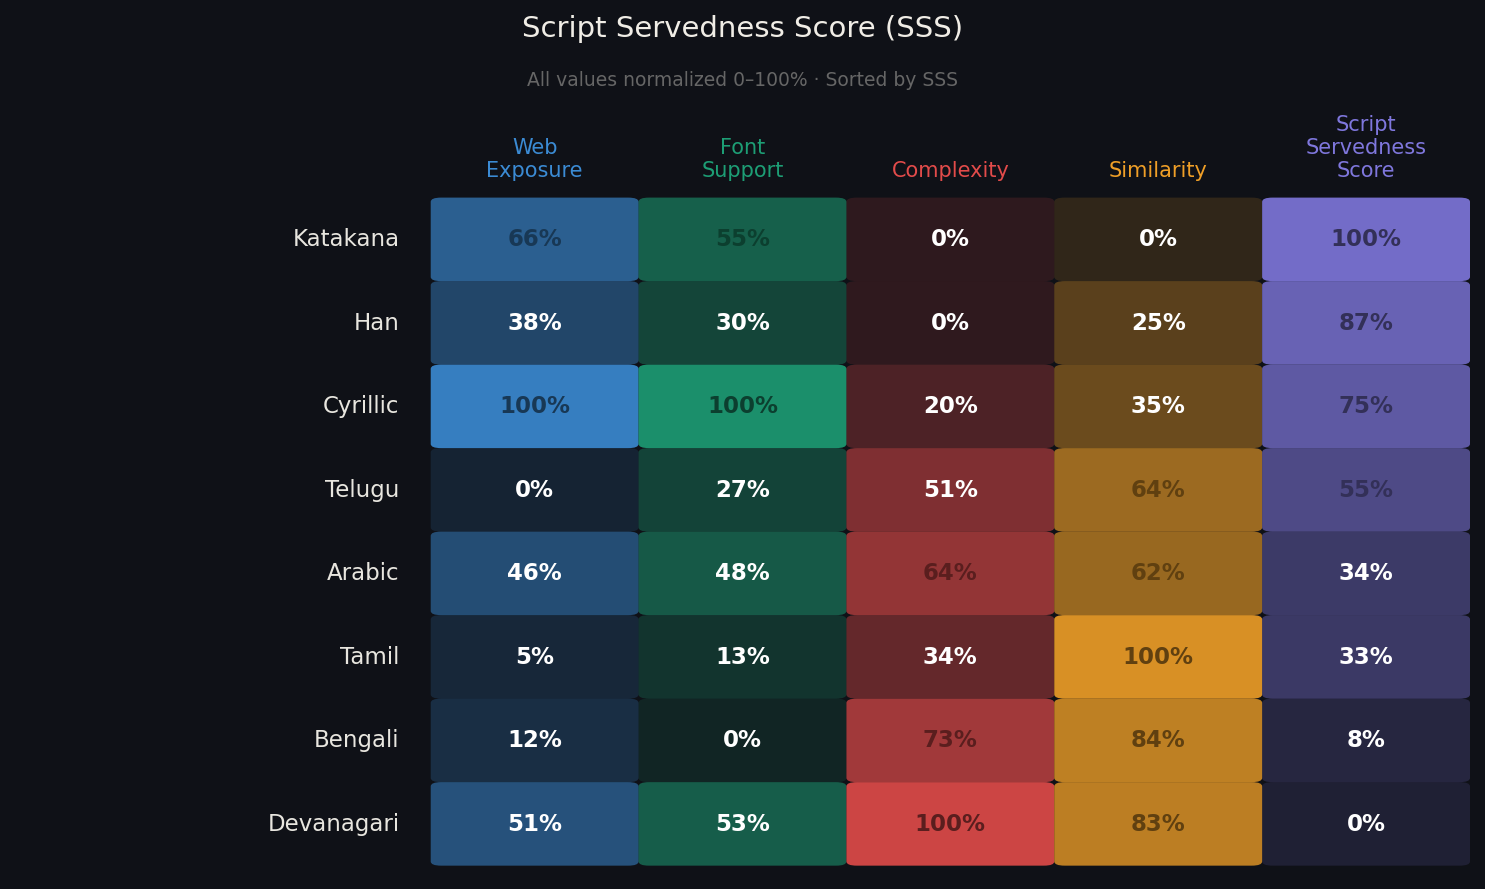
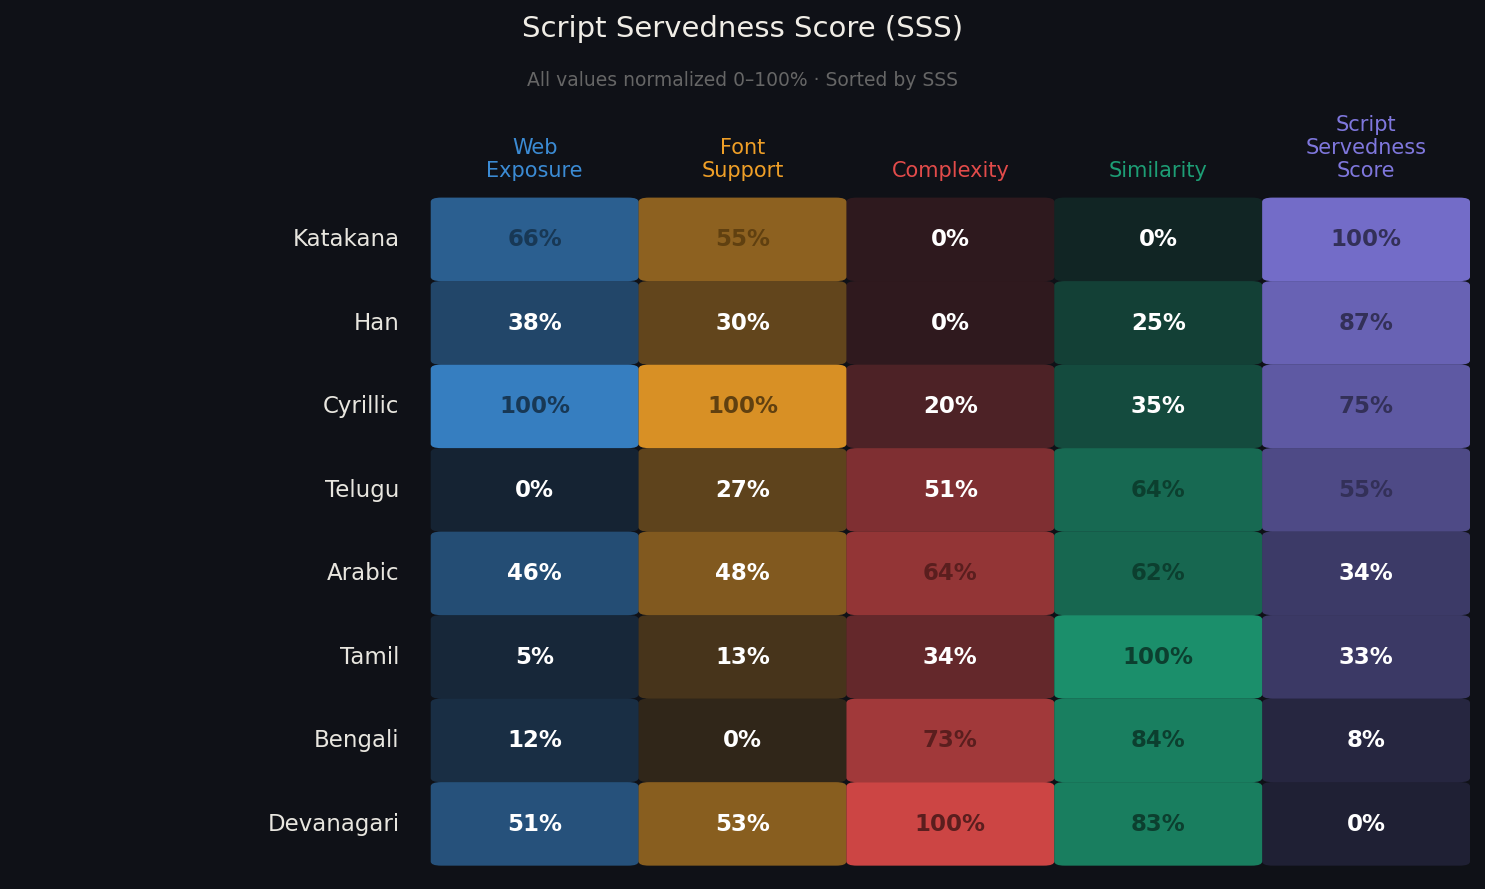
color consistency

Changed region(s): [[0.4027, 0.1519, 0.5886, 0.9719], [0.7125, 0.1822, 0.8673, 0.9719]]

diff --git a/data/viz/heatmap.html b/data/viz/heatmap.html
@@ -3,7 +3,7 @@
 <head>
 <meta charset="UTF-8">
 <meta name="viewport" content="width=device-width, initial-scale=1.0">
-<title>Script Servedness Score (SSS) Heatmap</title>
+<title>Script Underservedness Heatmap</title>
 <style>
   * { box-sizing: border-box; margin: 0; padding: 0; }
   body {
@@ -128,7 +128,7 @@
 
 <h1>Script Servedness Score (SSS)</h1>
 <p class="subtitle">
-  TRC / Monotype / Sawyer Lab | Data: Google Fonts | All values normalized 0-1 | Sorted by SSS (best served first)
+  TRC / Sawyer Lab | All values normalized 0-1 | Sorted by SSS (best served first)
 </p>
 
 <div class="heatmap-wrap">
@@ -148,8 +148,8 @@
 <div class="tooltip" id="tooltip"></div>
 
 <script>
-const data = [{"script": "Katakana", "cells": [{"norm": 0.6649, "raw": "434,832", "label": "Web Exposure", "color": "#3B8BD4"}, {"norm": 0.5505, "raw": "67", "label": "Font Support", "color": "#1D9E75"}, {"norm": 0.0, "raw": "0.000", "label": "Complexity", "color": "#E24B4A"}, {"norm": 0.0, "raw": "0.000", "label": "Similarity", "color": "#EF9F27"}, {"norm": 1.0, "raw": "-0.114", "label": "SSS", "color": "#7F77DD"}]}, {"script": "Han", "cells": [{"norm": 0.384, "raw": "96,340", "label": "Web Exposure", "color": "#3B8BD4"}, {"norm": 0.2953, "raw": "29", "label": "Font Support", "color": "#1D9E75"}, {"norm": 0.0022, "raw": "0.002", "label": "Complexity", "color": "#E24B4A"}, {"norm": 0.2509, "raw": "0.251", "label": "Similarity", "color": "#EF9F27"}, {"norm": 0.8668, "raw": "-0.342", "label": "SSS", "color": "#7F77DD"}]}, {"script": "Cyrillic", "cells": [{"norm": 1.0, "raw": "2,623,937", "label": "Web Exposure", "color": "#3B8BD4"}, {"norm": 1.0, "raw": "293", "label": "Font Support", "color": "#1D9E75"}, {"norm": 0.1969, "raw": "0.167", "label": "Complexity", "color": "#E24B4A"}, {"norm": 0.3525, "raw": "0.353", "label": "Similarity", "color": "#EF9F27"}, {"norm": 0.7451, "raw": "-0.549", "label": "SSS", "color": "#7F77DD"}]}, {"script": "Telugu", "cells": [{"norm": 0.0, "raw": "12,278", "label": "Web Exposure", "color": "#3B8BD4"}, {"norm": 0.2736, "raw": "27", "label": "Font Support", "color": "#1D9E75"}, {"norm": 0.511, "raw": "0.433", "label": "Complexity", "color": "#E24B4A"}, {"norm": 0.6417, "raw": "0.642", "label": "Similarity", "color": "#EF9F27"}, {"norm": 0.5518, "raw": "-0.879", "label": "SSS", "color": "#7F77DD"}]}, {"script": "Arabic", "cells": [{"norm": 0.4609, "raw": "145,526", "label": "Web Exposure", "color": "#3B8BD4"}, {"norm": 0.4848, "raw": "54", "label": "Font Support", "color": "#1D9E75"}, {"norm": 0.6384, "raw": "0.541", "label": "Complexity", "color": "#E24B4A"}, {"norm": 0.6189, "raw": "0.619", "label": "Similarity", "color": "#EF9F27"}, {"norm": 0.3442, "raw": "-1.233", "label": "SSS", "color": "#7F77DD"}]}, {"script": "Tamil", "cells": [{"norm": 0.0461, "raw": "15,721", "label": "Web Exposure", "color": "#3B8BD4"}, {"norm": 0.1326, "raw": "17", "label": "Font Support", "color": "#1D9E75"}, {"norm": 0.343, "raw": "0.290", "label": "Complexity", "color": "#E24B4A"}, {"norm": 1.0, "raw": "1.000", "label": "Similarity", "color": "#EF9F27"}, {"norm": 0.3307, "raw": "-1.256", "label": "SSS", "color": "#7F77DD"}]}, {"script": "Bengali", "cells": [{"norm": 0.1171, "raw": "23,006", "label": "Web Exposure", "color": "#3B8BD4"}, {"norm": 0.0, "raw": "11", "label": "Font Support", "color": "#1D9E75"}, {"norm": 0.7264, "raw": "0.615", "label": "Complexity", "color": "#E24B4A"}, {"norm": 0.8448, "raw": "0.845", "label": "Similarity", "color": "#EF9F27"}, {"norm": 0.0776, "raw": "-1.688", "label": "SSS", "color": "#7F77DD"}]}, {"script": "Devanagari", "cells": [{"norm": 0.5135, "raw": "192,989", "label": "Web Exposure", "color": "#3B8BD4"}, {"norm": 0.5268, "raw": "62", "label": "Font Support", "color": "#1D9E75"}, {"norm": 1.0, "raw": "0.847", "label": "Complexity", "color": "#E24B4A"}, {"norm": 0.834, "raw": "0.834", "label": "Similarity", "color": "#EF9F27"}, {"norm": 0.0, "raw": "-1.821", "label": "SSS", "color": "#7F77DD"}]}];
-const metrics = [{"label": "Web Exposure", "desc": "Higher = more readers", "color": "#3B8BD4"}, {"label": "Font Support", "desc": "Higher = more fonts", "color": "#1D9E75"}, {"label": "Complexity", "desc": "Higher = harder to engineer", "color": "#E24B4A"}, {"label": "Similarity", "desc": "Higher = less visual choice", "color": "#EF9F27"}, {"label": "SSS", "desc": "Higher = well served", "color": "#7F77DD"}];
+const data = [{"script": "Katakana", "cells": [{"norm": 0.6649, "raw": "434,832", "label": "Web Exposure", "color": "#3B8BD4"}, {"norm": 0.5505, "raw": "67", "label": "Font Support", "color": "#EF9F27"}, {"norm": 0.0, "raw": "0.000", "label": "Complexity", "color": "#E24B4A"}, {"norm": 0.0, "raw": "0.000", "label": "Similarity", "color": "#1D9E75"}, {"norm": 1.0, "raw": "-0.114", "label": "SSS", "color": "#7F77DD"}]}, {"script": "Han", "cells": [{"norm": 0.384, "raw": "96,340", "label": "Web Exposure", "color": "#3B8BD4"}, {"norm": 0.2953, "raw": "29", "label": "Font Support", "color": "#EF9F27"}, {"norm": 0.0022, "raw": "0.002", "label": "Complexity", "color": "#E24B4A"}, {"norm": 0.2509, "raw": "0.251", "label": "Similarity", "color": "#1D9E75"}, {"norm": 0.8668, "raw": "-0.342", "label": "SSS", "color": "#7F77DD"}]}, {"script": "Cyrillic", "cells": [{"norm": 1.0, "raw": "2,623,937", "label": "Web Exposure", "color": "#3B8BD4"}, {"norm": 1.0, "raw": "293", "label": "Font Support", "color": "#EF9F27"}, {"norm": 0.1969, "raw": "0.167", "label": "Complexity", "color": "#E24B4A"}, {"norm": 0.3525, "raw": "0.353", "label": "Similarity", "color": "#1D9E75"}, {"norm": 0.7451, "raw": "-0.549", "label": "SSS", "color": "#7F77DD"}]}, {"script": "Telugu", "cells": [{"norm": 0.0, "raw": "12,278", "label": "Web Exposure", "color": "#3B8BD4"}, {"norm": 0.2736, "raw": "27", "label": "Font Support", "color": "#EF9F27"}, {"norm": 0.511, "raw": "0.433", "label": "Complexity", "color": "#E24B4A"}, {"norm": 0.6417, "raw": "0.642", "label": "Similarity", "color": "#1D9E75"}, {"norm": 0.5518, "raw": "-0.879", "label": "SSS", "color": "#7F77DD"}]}, {"script": "Arabic", "cells": [{"norm": 0.4609, "raw": "145,526", "label": "Web Exposure", "color": "#3B8BD4"}, {"norm": 0.4848, "raw": "54", "label": "Font Support", "color": "#EF9F27"}, {"norm": 0.6384, "raw": "0.541", "label": "Complexity", "color": "#E24B4A"}, {"norm": 0.6189, "raw": "0.619", "label": "Similarity", "color": "#1D9E75"}, {"norm": 0.3442, "raw": "-1.233", "label": "SSS", "color": "#7F77DD"}]}, {"script": "Tamil", "cells": [{"norm": 0.0461, "raw": "15,721", "label": "Web Exposure", "color": "#3B8BD4"}, {"norm": 0.1326, "raw": "17", "label": "Font Support", "color": "#EF9F27"}, {"norm": 0.343, "raw": "0.290", "label": "Complexity", "color": "#E24B4A"}, {"norm": 1.0, "raw": "1.000", "label": "Similarity", "color": "#1D9E75"}, {"norm": 0.3307, "raw": "-1.256", "label": "SSS", "color": "#7F77DD"}]}, {"script": "Bengali", "cells": [{"norm": 0.1171, "raw": "23,006", "label": "Web Exposure", "color": "#3B8BD4"}, {"norm": 0.0, "raw": "11", "label": "Font Support", "color": "#EF9F27"}, {"norm": 0.7264, "raw": "0.615", "label": "Complexity", "color": "#E24B4A"}, {"norm": 0.8448, "raw": "0.845", "label": "Similarity", "color": "#1D9E75"}, {"norm": 0.0776, "raw": "-1.688", "label": "SSS", "color": "#7F77DD"}]}, {"script": "Devanagari", "cells": [{"norm": 0.5135, "raw": "192,989", "label": "Web Exposure", "color": "#3B8BD4"}, {"norm": 0.5268, "raw": "62", "label": "Font Support", "color": "#EF9F27"}, {"norm": 1.0, "raw": "0.847", "label": "Complexity", "color": "#E24B4A"}, {"norm": 0.834, "raw": "0.834", "label": "Similarity", "color": "#1D9E75"}, {"norm": 0.0, "raw": "-1.821", "label": "SSS", "color": "#7F77DD"}]}];
+const metrics = [{"label": "Web Exposure", "desc": "Higher = more readers", "color": "#3B8BD4"}, {"label": "Font Support", "desc": "Higher = more fonts", "color": "#EF9F27"}, {"label": "Complexity", "desc": "Higher = harder to engineer", "color": "#E24B4A"}, {"label": "Similarity", "desc": "Higher = less visual choice", "color": "#1D9E75"}, {"label": "SSS", "desc": "Higher = well served", "color": "#7F77DD"}];
 
 function hexToRgb(hex) {
   const r = parseInt(hex.slice(1,3),16);

diff --git a/docs/viz/heatmap.html b/docs/viz/heatmap.html
@@ -3,7 +3,7 @@
 <head>
 <meta charset="UTF-8">
 <meta name="viewport" content="width=device-width, initial-scale=1.0">
-<title>Script Servedness Score (SSS) Heatmap</title>
+<title>Script Underservedness Heatmap</title>
 <style>
   * { box-sizing: border-box; margin: 0; padding: 0; }
   body {
@@ -128,7 +128,7 @@
 
 <h1>Script Servedness Score (SSS)</h1>
 <p class="subtitle">
-  TRC / Monotype / Sawyer Lab | Data: Google Fonts | All values normalized 0-1 | Sorted by SSS (best served first)
+  TRC / Sawyer Lab | All values normalized 0-1 | Sorted by SSS (best served first)
 </p>
 
 <div class="heatmap-wrap">
@@ -148,8 +148,8 @@
 <div class="tooltip" id="tooltip"></div>
 
 <script>
-const data = [{"script": "Katakana", "cells": [{"norm": 0.6649, "raw": "434,832", "label": "Web Exposure", "color": "#3B8BD4"}, {"norm": 0.5505, "raw": "67", "label": "Font Support", "color": "#1D9E75"}, {"norm": 0.0, "raw": "0.000", "label": "Complexity", "color": "#E24B4A"}, {"norm": 0.0, "raw": "0.000", "label": "Similarity", "color": "#EF9F27"}, {"norm": 1.0, "raw": "-0.114", "label": "SSS", "color": "#7F77DD"}]}, {"script": "Han", "cells": [{"norm": 0.384, "raw": "96,340", "label": "Web Exposure", "color": "#3B8BD4"}, {"norm": 0.2953, "raw": "29", "label": "Font Support", "color": "#1D9E75"}, {"norm": 0.0022, "raw": "0.002", "label": "Complexity", "color": "#E24B4A"}, {"norm": 0.2509, "raw": "0.251", "label": "Similarity", "color": "#EF9F27"}, {"norm": 0.8668, "raw": "-0.342", "label": "SSS", "color": "#7F77DD"}]}, {"script": "Cyrillic", "cells": [{"norm": 1.0, "raw": "2,623,937", "label": "Web Exposure", "color": "#3B8BD4"}, {"norm": 1.0, "raw": "293", "label": "Font Support", "color": "#1D9E75"}, {"norm": 0.1969, "raw": "0.167", "label": "Complexity", "color": "#E24B4A"}, {"norm": 0.3525, "raw": "0.353", "label": "Similarity", "color": "#EF9F27"}, {"norm": 0.7451, "raw": "-0.549", "label": "SSS", "color": "#7F77DD"}]}, {"script": "Telugu", "cells": [{"norm": 0.0, "raw": "12,278", "label": "Web Exposure", "color": "#3B8BD4"}, {"norm": 0.2736, "raw": "27", "label": "Font Support", "color": "#1D9E75"}, {"norm": 0.511, "raw": "0.433", "label": "Complexity", "color": "#E24B4A"}, {"norm": 0.6417, "raw": "0.642", "label": "Similarity", "color": "#EF9F27"}, {"norm": 0.5518, "raw": "-0.879", "label": "SSS", "color": "#7F77DD"}]}, {"script": "Arabic", "cells": [{"norm": 0.4609, "raw": "145,526", "label": "Web Exposure", "color": "#3B8BD4"}, {"norm": 0.4848, "raw": "54", "label": "Font Support", "color": "#1D9E75"}, {"norm": 0.6384, "raw": "0.541", "label": "Complexity", "color": "#E24B4A"}, {"norm": 0.6189, "raw": "0.619", "label": "Similarity", "color": "#EF9F27"}, {"norm": 0.3442, "raw": "-1.233", "label": "SSS", "color": "#7F77DD"}]}, {"script": "Tamil", "cells": [{"norm": 0.0461, "raw": "15,721", "label": "Web Exposure", "color": "#3B8BD4"}, {"norm": 0.1326, "raw": "17", "label": "Font Support", "color": "#1D9E75"}, {"norm": 0.343, "raw": "0.290", "label": "Complexity", "color": "#E24B4A"}, {"norm": 1.0, "raw": "1.000", "label": "Similarity", "color": "#EF9F27"}, {"norm": 0.3307, "raw": "-1.256", "label": "SSS", "color": "#7F77DD"}]}, {"script": "Bengali", "cells": [{"norm": 0.1171, "raw": "23,006", "label": "Web Exposure", "color": "#3B8BD4"}, {"norm": 0.0, "raw": "11", "label": "Font Support", "color": "#1D9E75"}, {"norm": 0.7264, "raw": "0.615", "label": "Complexity", "color": "#E24B4A"}, {"norm": 0.8448, "raw": "0.845", "label": "Similarity", "color": "#EF9F27"}, {"norm": 0.0776, "raw": "-1.688", "label": "SSS", "color": "#7F77DD"}]}, {"script": "Devanagari", "cells": [{"norm": 0.5135, "raw": "192,989", "label": "Web Exposure", "color": "#3B8BD4"}, {"norm": 0.5268, "raw": "62", "label": "Font Support", "color": "#1D9E75"}, {"norm": 1.0, "raw": "0.847", "label": "Complexity", "color": "#E24B4A"}, {"norm": 0.834, "raw": "0.834", "label": "Similarity", "color": "#EF9F27"}, {"norm": 0.0, "raw": "-1.821", "label": "SSS", "color": "#7F77DD"}]}];
-const metrics = [{"label": "Web Exposure", "desc": "Higher = more readers", "color": "#3B8BD4"}, {"label": "Font Support", "desc": "Higher = more fonts", "color": "#1D9E75"}, {"label": "Complexity", "desc": "Higher = harder to engineer", "color": "#E24B4A"}, {"label": "Similarity", "desc": "Higher = less visual choice", "color": "#EF9F27"}, {"label": "SSS", "desc": "Higher = well served", "color": "#7F77DD"}];
+const data = [{"script": "Katakana", "cells": [{"norm": 0.6649, "raw": "434,832", "label": "Web Exposure", "color": "#3B8BD4"}, {"norm": 0.5505, "raw": "67", "label": "Font Support", "color": "#EF9F27"}, {"norm": 0.0, "raw": "0.000", "label": "Complexity", "color": "#E24B4A"}, {"norm": 0.0, "raw": "0.000", "label": "Similarity", "color": "#1D9E75"}, {"norm": 1.0, "raw": "-0.114", "label": "SSS", "color": "#7F77DD"}]}, {"script": "Han", "cells": [{"norm": 0.384, "raw": "96,340", "label": "Web Exposure", "color": "#3B8BD4"}, {"norm": 0.2953, "raw": "29", "label": "Font Support", "color": "#EF9F27"}, {"norm": 0.0022, "raw": "0.002", "label": "Complexity", "color": "#E24B4A"}, {"norm": 0.2509, "raw": "0.251", "label": "Similarity", "color": "#1D9E75"}, {"norm": 0.8668, "raw": "-0.342", "label": "SSS", "color": "#7F77DD"}]}, {"script": "Cyrillic", "cells": [{"norm": 1.0, "raw": "2,623,937", "label": "Web Exposure", "color": "#3B8BD4"}, {"norm": 1.0, "raw": "293", "label": "Font Support", "color": "#EF9F27"}, {"norm": 0.1969, "raw": "0.167", "label": "Complexity", "color": "#E24B4A"}, {"norm": 0.3525, "raw": "0.353", "label": "Similarity", "color": "#1D9E75"}, {"norm": 0.7451, "raw": "-0.549", "label": "SSS", "color": "#7F77DD"}]}, {"script": "Telugu", "cells": [{"norm": 0.0, "raw": "12,278", "label": "Web Exposure", "color": "#3B8BD4"}, {"norm": 0.2736, "raw": "27", "label": "Font Support", "color": "#EF9F27"}, {"norm": 0.511, "raw": "0.433", "label": "Complexity", "color": "#E24B4A"}, {"norm": 0.6417, "raw": "0.642", "label": "Similarity", "color": "#1D9E75"}, {"norm": 0.5518, "raw": "-0.879", "label": "SSS", "color": "#7F77DD"}]}, {"script": "Arabic", "cells": [{"norm": 0.4609, "raw": "145,526", "label": "Web Exposure", "color": "#3B8BD4"}, {"norm": 0.4848, "raw": "54", "label": "Font Support", "color": "#EF9F27"}, {"norm": 0.6384, "raw": "0.541", "label": "Complexity", "color": "#E24B4A"}, {"norm": 0.6189, "raw": "0.619", "label": "Similarity", "color": "#1D9E75"}, {"norm": 0.3442, "raw": "-1.233", "label": "SSS", "color": "#7F77DD"}]}, {"script": "Tamil", "cells": [{"norm": 0.0461, "raw": "15,721", "label": "Web Exposure", "color": "#3B8BD4"}, {"norm": 0.1326, "raw": "17", "label": "Font Support", "color": "#EF9F27"}, {"norm": 0.343, "raw": "0.290", "label": "Complexity", "color": "#E24B4A"}, {"norm": 1.0, "raw": "1.000", "label": "Similarity", "color": "#1D9E75"}, {"norm": 0.3307, "raw": "-1.256", "label": "SSS", "color": "#7F77DD"}]}, {"script": "Bengali", "cells": [{"norm": 0.1171, "raw": "23,006", "label": "Web Exposure", "color": "#3B8BD4"}, {"norm": 0.0, "raw": "11", "label": "Font Support", "color": "#EF9F27"}, {"norm": 0.7264, "raw": "0.615", "label": "Complexity", "color": "#E24B4A"}, {"norm": 0.8448, "raw": "0.845", "label": "Similarity", "color": "#1D9E75"}, {"norm": 0.0776, "raw": "-1.688", "label": "SSS", "color": "#7F77DD"}]}, {"script": "Devanagari", "cells": [{"norm": 0.5135, "raw": "192,989", "label": "Web Exposure", "color": "#3B8BD4"}, {"norm": 0.5268, "raw": "62", "label": "Font Support", "color": "#EF9F27"}, {"norm": 1.0, "raw": "0.847", "label": "Complexity", "color": "#E24B4A"}, {"norm": 0.834, "raw": "0.834", "label": "Similarity", "color": "#1D9E75"}, {"norm": 0.0, "raw": "-1.821", "label": "SSS", "color": "#7F77DD"}]}];
+const metrics = [{"label": "Web Exposure", "desc": "Higher = more readers", "color": "#3B8BD4"}, {"label": "Font Support", "desc": "Higher = more fonts", "color": "#EF9F27"}, {"label": "Complexity", "desc": "Higher = harder to engineer", "color": "#E24B4A"}, {"label": "Similarity", "desc": "Higher = less visual choice", "color": "#1D9E75"}, {"label": "SSS", "desc": "Higher = well served", "color": "#7F77DD"}];
 
 function hexToRgb(hex) {
   const r = parseInt(hex.slice(1,3),16);

diff --git a/docs/index.html b/docs/index.html
@@ -269,16 +269,16 @@
                     <div class="signal-name" style="color:#2A6BAB;">Exposure</div>
                     <div class="signal-desc">font requests per script across the top 10M sites</div>
                 </div>
-                <div class="signal-card" style="border-color:#1D9E75; background:#f0faf5;">
-                    <div class="signal-name" style="color:#157955;">Support</div>
+                <div class="signal-card" style="border-color:#EF9F27; background:#fdf7eb;">
+                    <div class="signal-name" style="color:#B8741A;">Support</div>
                     <div class="signal-desc">distinct font families per script (Google Fonts)</div>
                 </div>
                 <div class="signal-card" style="border-color:#E24B4A; background:#fdf2f2;">
                     <div class="signal-name" style="color:#B0383A;">Complexity</div>
                     <div class="signal-desc">0.50·E + 0.30·V + 0.20·F<br><span style="color:#888;">glyph count · vertical footprint · OpenType shaping</span></div>
                 </div>
-                <div class="signal-card" style="border-color:#EF9F27; background:#fdf7eb;">
-                    <div class="signal-name" style="color:#B8741A;">Similarity</div>
+                <div class="signal-card" style="border-color:#1D9E75; background:#f0faf5;">
+                    <div class="signal-name" style="color:#157955;">Similarity</div>
                     <div class="signal-desc">how visually alike fonts within a script are (1 − mean pairwise cosine distance of ViT-B/16 font fingerprints)</div>
                 </div>
             </div>

diff --git a/data_viz/generate_heatmap.py b/data_viz/generate_heatmap.py
@@ -155,9 +155,9 @@ def generate_html_heatmap(master: pd.DataFrame) -> str:
 
     metrics = [
         ("log_exposure_norm",    "Web Exposure",   "Higher = more readers",      "#3B8BD4"),
-        ("log_support_norm",     "Font Support",   "Higher = more fonts",        "#1D9E75"),
+        ("log_support_norm",     "Font Support",   "Higher = more fonts",        "#EF9F27"),
         ("complexity_norm",      "Complexity",     "Higher = harder to engineer","#E24B4A"),
-        ("similarity_index_norm", "Similarity",     "Higher = less visual choice","#EF9F27"),
+        ("similarity_index_norm", "Similarity",     "Higher = less visual choice","#1D9E75"),
         ("sss_norm",       "SSS",      "Higher = well served",  "#7F77DD"),
     ]
 
@@ -450,9 +450,9 @@ def generate_png_heatmap(master: pd.DataFrame, output_path: Path):
     scripts = master["script"].tolist()
     metrics_info = [
         ("log_exposure_norm",    "Web\nExposure",  "#3B8BD4"),
-        ("log_support_norm",     "Font\nSupport",  "#1D9E75"),
+        ("log_support_norm",     "Font\nSupport",  "#EF9F27"),
         ("complexity_norm",      "Complexity",     "#E24B4A"),
-        ("similarity_index_norm", "Similarity",     "#EF9F27"),
+        ("similarity_index_norm", "Similarity",     "#1D9E75"),
         ("sss_norm",       "Script\nServedness\nScore",     "#7F77DD"),
     ]
 
